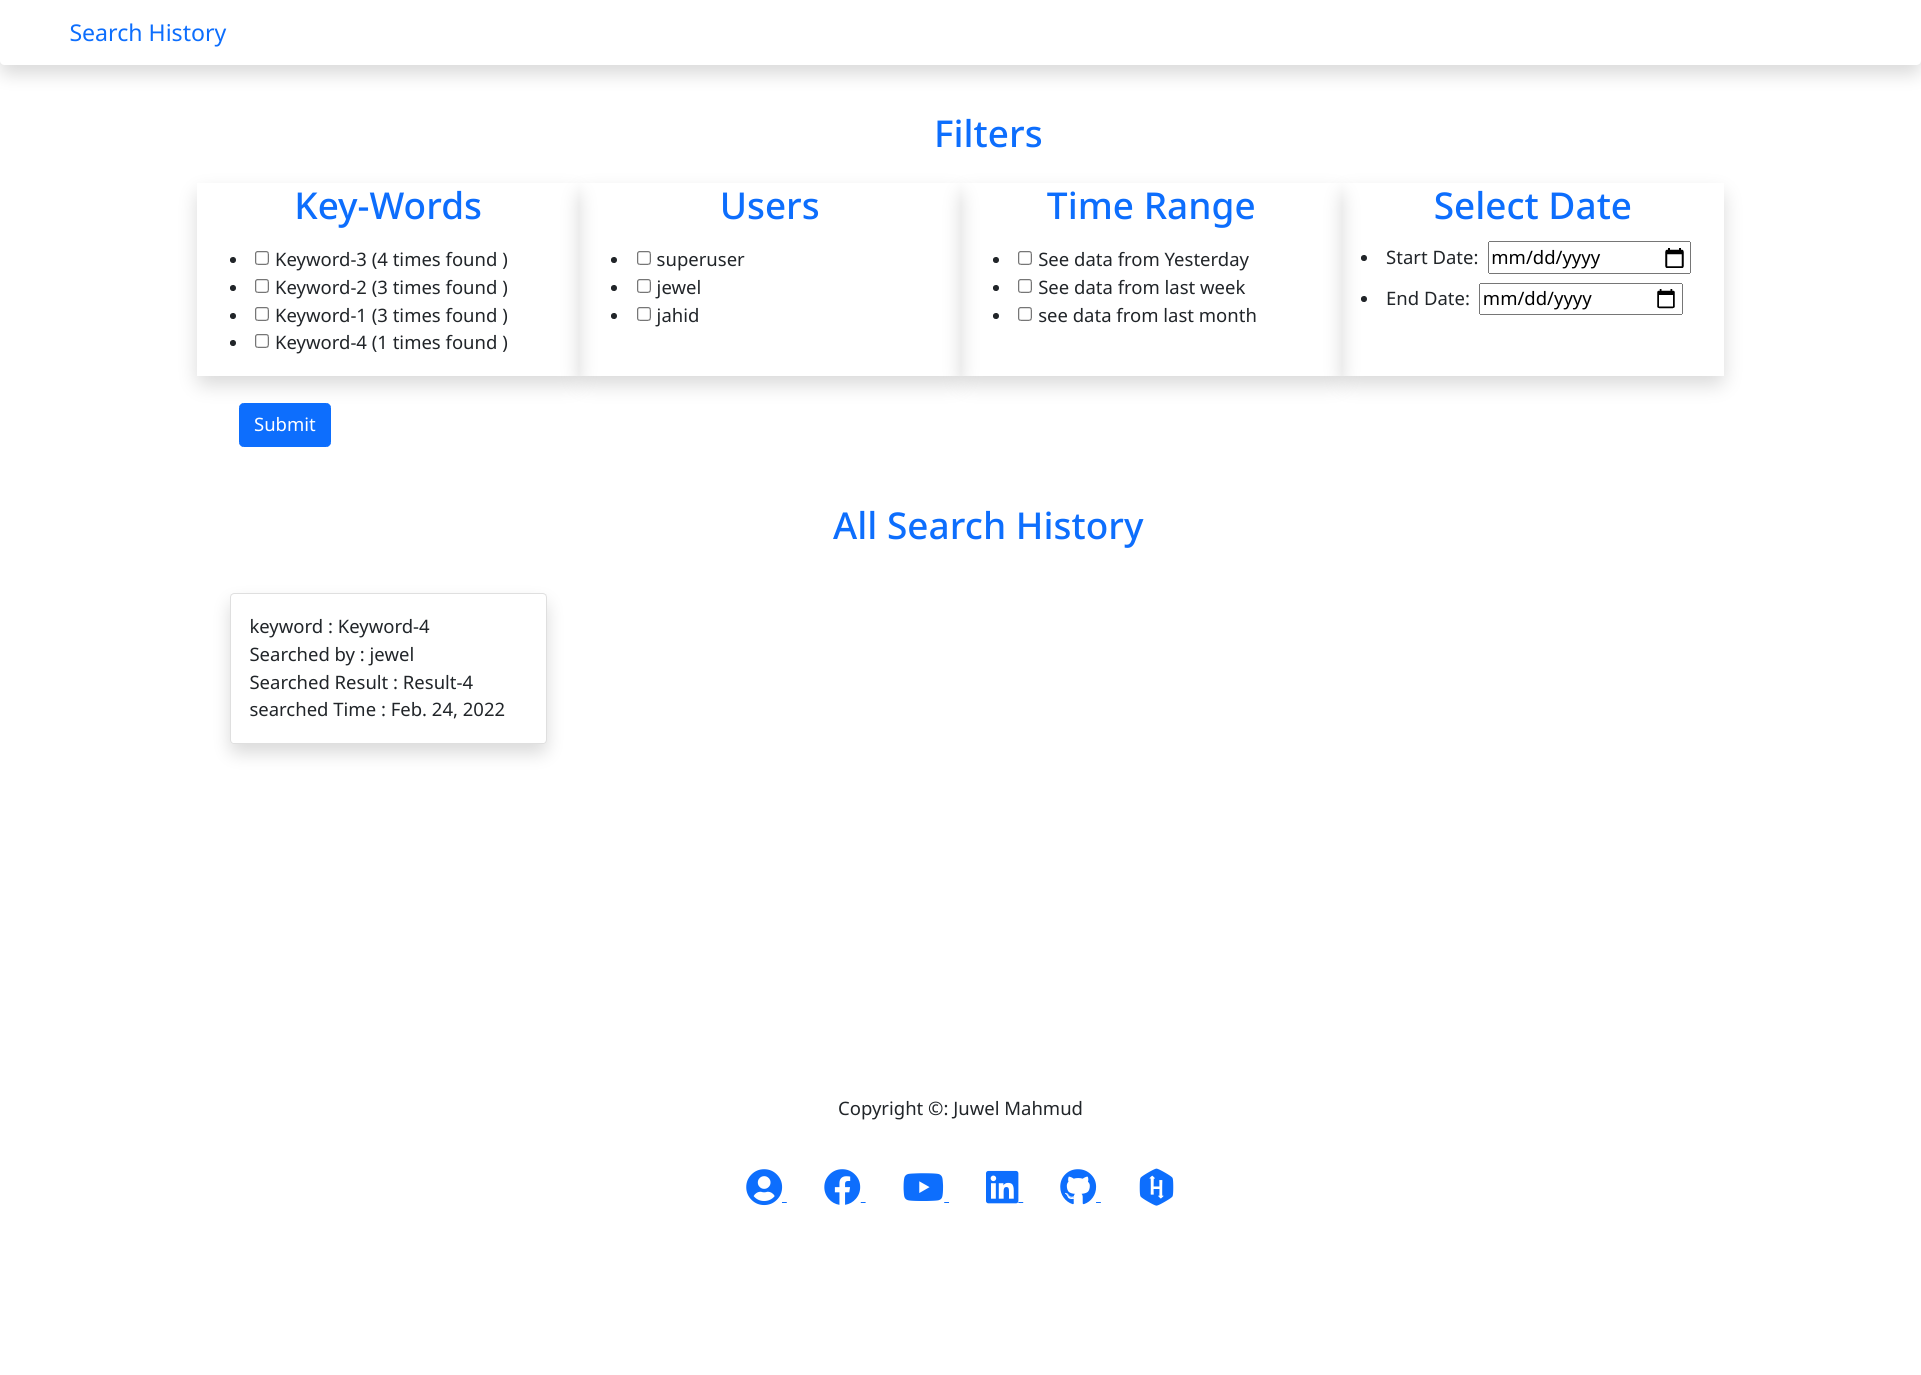
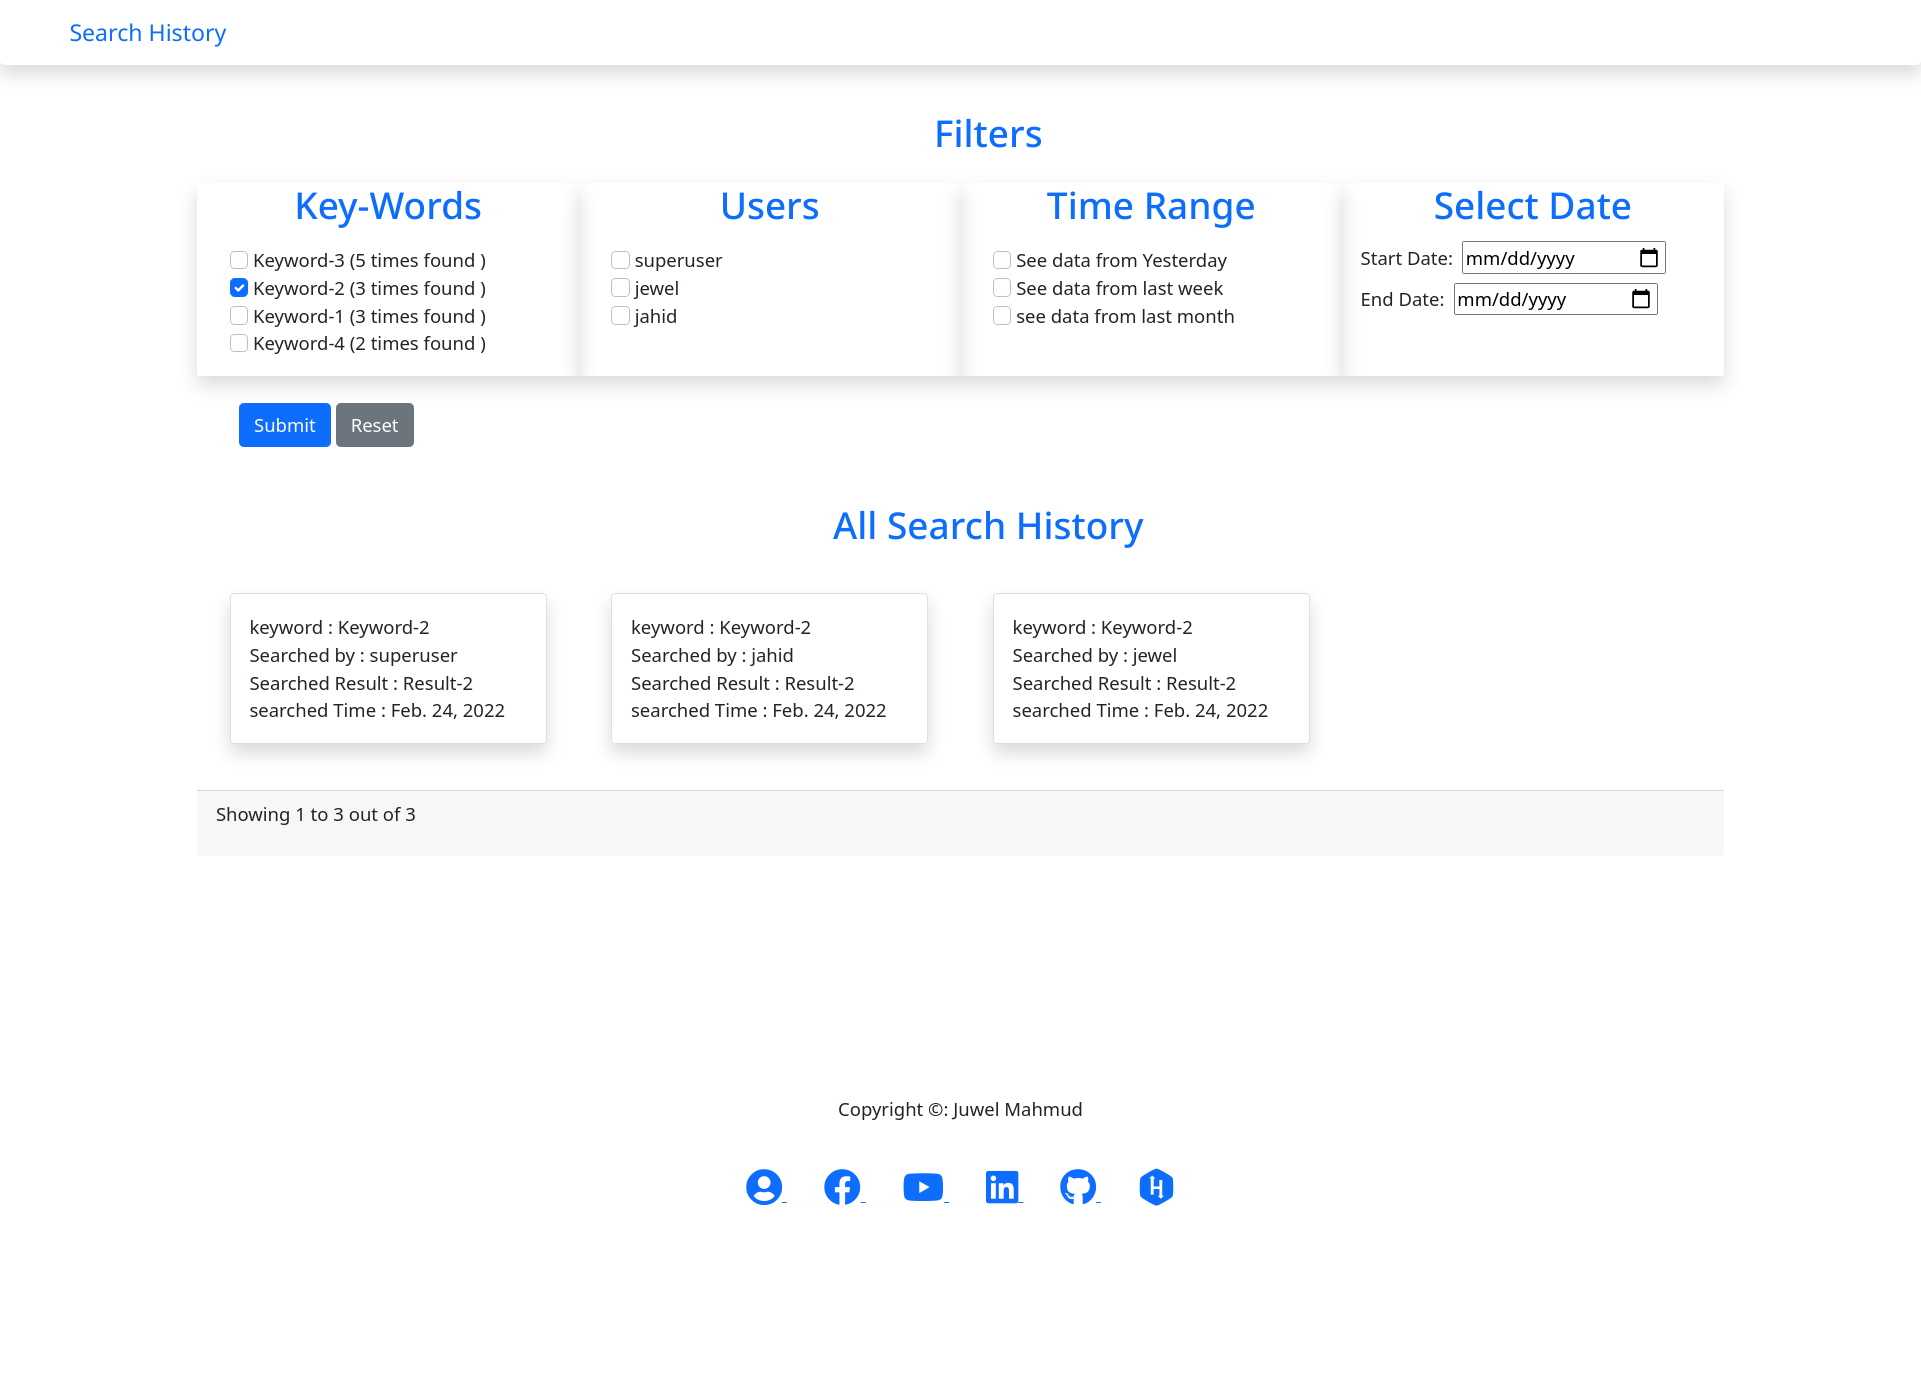
some designed changed on home page

diff --git a/templates/home.html b/templates/home.html
@@ -1,4 +1,4 @@
-{% extends 'base.html' %} {% block content %}
+{% extends 'base.html' %} {% load static %} {% block content %}
 <div class="container">
   <!-- distinct keywords, users, time ==> filter  -->
   <form action="?" method="get">
@@ -9,10 +9,8 @@
         <h2 class="text-center text-primary">Key-Words</h2>
         <div class="m-3">
           {% for h in keywords %}
-          <li>
-            <input type="checkbox" value="{{h.keyword }}" name="keyword_checkbox" />
-            {{h.keyword}} ({{ h.key_count}} times found )
-          </li>
+          <input class="form-check-input" id="{{h.keyword}}" type="checkbox" value="{{h.keyword }}" name="keyword_checkbox" {% if h.keyword in ky %} checked {% endif %}/>
+          <label class="form-check-label" for="{{h.keyword}}"> {{h.keyword}} ({{ h.key_count}} times found ) </label> <br>
           {% endfor %}
         </div>
       </div>
@@ -22,10 +20,9 @@
         <h2 class="text-center text-primary">Users</h2>
         <div class="m-3">
           {% for h in users %}
-          <li>
-            <input type="checkbox" value="{{h.username }}" name="user_checkbox" />
-            {{h.username}}
-          </li>
+            <input class="form-check-input" id="{{h.id}}" type="checkbox" value="{{h.username }}" name="user_checkbox" {% if h.username in users_ck %} checked {% endif %}/>
+            <label class="form-check-label" for="{{h.id}}"> {{h.username}} </label>
+          <br>
           {% endfor %}
         </div>
       </div>
@@ -33,28 +30,27 @@
       <div class="col-md-3 shadow">
         <h2 class="text-center text-primary">Time Range</h2>
         <div class="m-3">
-          <li>
-            <input type="checkbox" value="1" name="time_checkbox" />
-            See data from Yesterday
-          </li>
-          <li>
-            <input type="checkbox" value="7" name="time_checkbox" />
-            See data from last week
-          </li>
-          <li>
-            <input type="checkbox" value="30" name="time_checkbox" />
-            see data from last month
-          </li>
+          <input class="form-check-input" id="one" type="checkbox" value="1" name="time_checkbox" {% if time_range %} {% if '1' in time_range %} checked {% endif %}{% endif %}/>
+          <label class="form-check-label" for="one"> See data from Yesterday </label>
+          <br>
+
+          <input class="form-check-input" id="seven" type="checkbox" value="7" name="time_checkbox" {% if '7' in time_range %} checked {% endif %}/>
+          <label class="form-check-label" for="seven"> See data from last week </label>
+          <br>
+
+          <input class="form-check-input" id="month" type="checkbox" value="30" name="time_checkbox" {% if '30' in time_range %} checked {% endif %}/>
+          <label class="form-check-label" for="month"> see data from last month </label>
+          <br>
         </div>
       </div>
 
       <div class="col-md-3 shadow">
         <h2 class="text-center text-primary">Select Date</h2>
         <div class="m-1">
-          <li>Start Date:
+          <li class="list-inline-item">Start Date:
             <input type="date" name="start_date" class="m-1" />
           </li>
-          <li>End Date:
+          <li class="list-inline-item">End Date:
             <input type="date" name="end_date" class="m-1"/>
           </li>
         </div>
@@ -62,6 +58,7 @@
 
       <div class="m-4">
         <button class="btn btn-primary" type="submit" >Submit</button>
+        <a href="/" class="btn btn-secondary" >Reset</a>
       </div>
     </div>
   </form>

diff --git a/second/views.py b/second/views.py
@@ -51,10 +51,21 @@ class history_view(ListView):
         return all_Data
     
     def get_context_data(self, **kwargs):
+        # for checked or unchecked 
+        ky = self.request.GET.getlist('keyword_checkbox')
+        users_ck = self.request.GET.getlist("user_checkbox")
+        time_range = self.request.GET.getlist("time_checkbox")
+        if time_range:
+            print('time : ', time_range[0])
+        
+        # print(f"keyword is : ", ky)
         context = super().get_context_data(**kwargs)
         users= User.objects.all()
         keywords = history.objects.values("keyword").distinct().annotate(key_count=Count("keyword")).order_by('-key_count')
         context['users'] = list(users)
         context['keywords'] = list(keywords)
+        context['ky']=list(ky)
+        context['users_ck']=list(users_ck)
+        context['time_range']=list(time_range)
         return context
     
